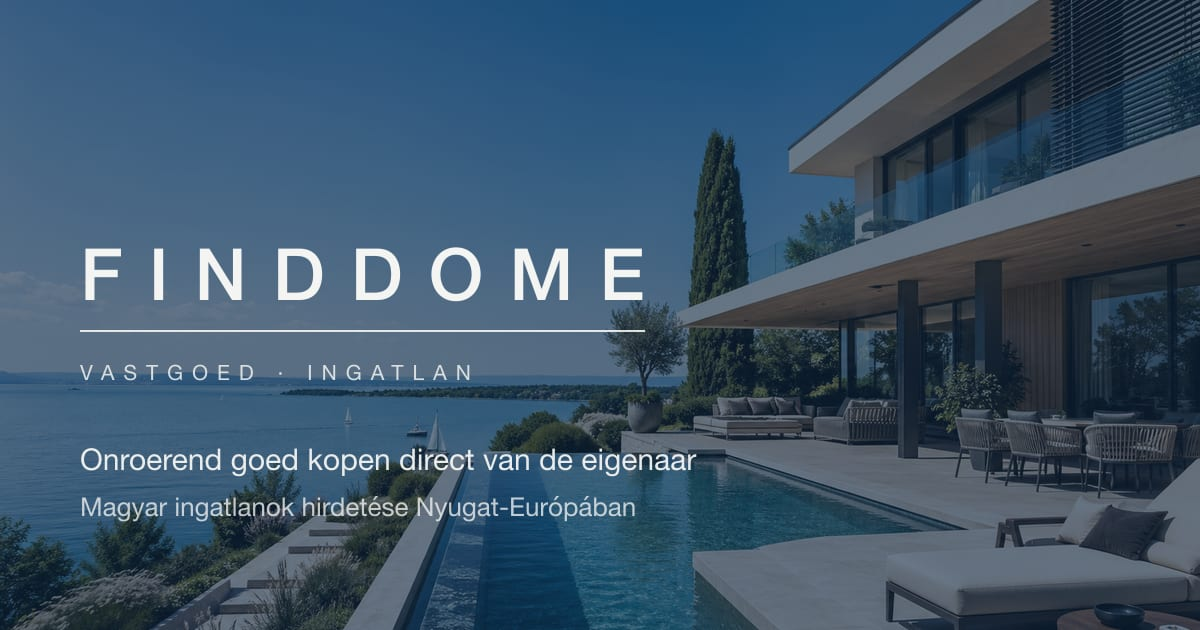
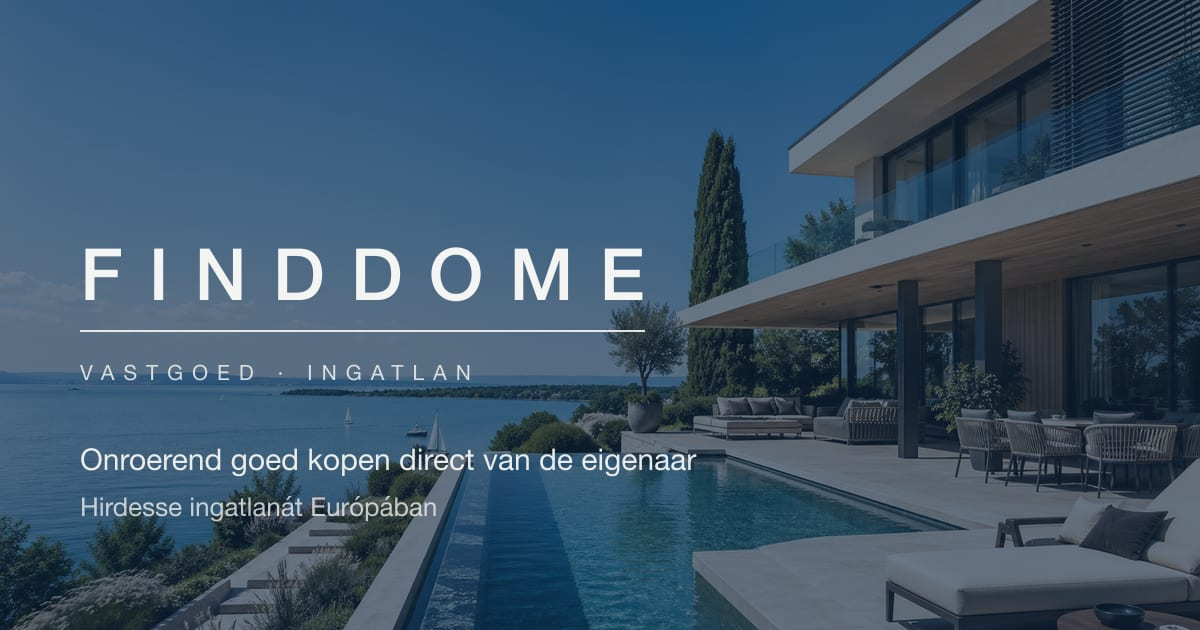
Landing page search title/description and share card follow the new hero (21 languages)

Changed region(s): [[0.0617, 0.7841, 0.5242, 0.8444]]

diff --git a/src/data/copy.ts b/src/data/copy.ts
@@ -59,9 +59,9 @@ const BASE = {
   hu: {
     home: {
       meta: {
-        title: 'FINDDOME Ingatlan | Magyar ingatlanok hirdetése Nyugat-Európában',
+        title: 'FINDDOME Ingatlan | Hirdesse ingatlanát Európában',
         description:
-          `Hirdesse magyar ingatlanát ${REACH_LANGUAGES} nyelven, ${REACH_COUNTRIES} országban, kizárólagossági szerződés nélkül. Készpénzes holland, belga és német vevők. Jutalék csak sikeres eladás esetén.`,
+          'Töltse fel hirdetését néhány lépésben. Online fizetés után 21 nyelvű oldalunkon jelenik meg, kizárólagossági szerződés nélkül.',
       },
       hero: {
         eyebrow: `Alapítva 2013 · ${foundedInLabel('hu')}`,
@@ -322,9 +322,9 @@ const BASE = {
   nl: {
     home: {
       meta: {
-        title: 'FINDDOME Vastgoed | Onroerend goed kopen direct van de eigenaar',
+        title: 'FINDDOME Vastgoed | Adverteer uw vastgoed in Europa',
         description:
-          'Huizen, boerderijen en landgoederen in Hongarije, vaak rechtstreeks van de eigenaar. Nederlandse begeleiding en tweetalige contracten.',
+          'Plaats uw advertentie in enkele stappen. Na online betaling staat ze op onze site in 21 talen, zonder exclusiviteitscontract.',
       },
       hero: {
         eyebrow: `Sinds 2013 · ${foundedInLabel('nl')}`,

diff --git a/src/data/copy-el.ts b/src/data/copy-el.ts
@@ -20,9 +20,9 @@ const L = 'el' as const;
 export const EL = {
   home: {
     meta: {
-      title: 'FINDDOME Real Estates | Αγοράστε ακίνητο στην Ουγγαρία απευθείας από τον ιδιοκτήτη',
+      title: 'FINDDOME Real Estates | Αναρτήστε το ακίνητό σας στην Ευρώπη',
       description:
-        'Σπίτια, αγροκτήματα και εξοχικά κτήματα στην Ουγγαρία, συχνά απευθείας από τον ιδιοκτήτη. Καθοδήγηση στη γλώσσα σας και δίγλωσσα συμβόλαια αγοραπωλησίας.',
+        'Ανεβάστε την αγγελία σας σε λίγα βήματα. Μετά την ηλεκτρονική πληρωμή δημοσιεύεται σε 21 γλώσσες, χωρίς σύμβαση αποκλειστικότητας.',
     },
     hero: {
       eyebrow: `Από το 2013 · ${foundedInLabel(L)}`,

diff --git a/src/data/copy-fr.ts b/src/data/copy-fr.ts
@@ -29,9 +29,9 @@ const hour = (hhmm: string) => {
 export const FR = {
   home: {
     meta: {
-      title: 'FINDDOME Immobilier | Acheter un bien en Hongrie, directement auprès du propriétaire',
+      title: 'FINDDOME Immobilier | Annoncez votre bien en Europe',
       description:
-        'Maisons, fermes et domaines en Hongrie, souvent directement auprès du propriétaire. Accompagnement dans votre langue et contrats de vente bilingues.',
+        'Déposez votre annonce en quelques étapes. Après paiement en ligne, elle est publiée en 21 langues, sans contrat d’exclusivité.',
     },
     hero: {
       eyebrow: `Depuis 2013 · ${foundedInLabel(L)}`,

diff --git a/src/data/copy-pt.ts b/src/data/copy-pt.ts
@@ -20,9 +20,9 @@ const L = 'pt' as const;
 export const PT = {
   home: {
     meta: {
-      title: 'FINDDOME Real Estates | Compre um imóvel na Hungria diretamente ao proprietário',
+      title: 'FINDDOME Real Estates | Anuncie o seu imóvel na Europa',
       description:
-        'Casas, quintas e propriedades rurais na Hungria, muitas vezes diretamente ao proprietário. Acompanhamento na sua língua e contratos de compra e venda bilingues.',
+        'Carregue o seu anúncio em poucos passos. Após o pagamento online, é publicado em 21 idiomas, sem contrato de exclusividade.',
     },
     hero: {
       eyebrow: `Desde 2013 · ${foundedInLabel(L)}`,

diff --git a/src/data/copy-lv.ts b/src/data/copy-lv.ts
@@ -20,9 +20,9 @@ const L = 'lv' as const;
 export const LV = {
   home: {
     meta: {
-      title: 'FINDDOME Real Estates | Iegādājieties īpašumu Ungārijā tieši no īpašnieka',
+      title: 'FINDDOME Real Estates | Sludiniet savu īpašumu Eiropā',
       description:
-        'Mājas, saimniecības un lauku īpašumi Ungārijā, bieži tieši no īpašnieka. Konsultācijas jūsu valodā un divvalodu pirkuma līgumi.',
+        'Augšupielādējiet sludinājumu dažos soļos. Pēc maksājuma tiešsaistē tas tiek publicēts 21 valodā, bez ekskluzivitātes līguma.',
     },
     hero: {
       eyebrow: `Kopš 2013. gada · ${foundedInLabel(L)}`,

diff --git a/src/data/copy-lt.ts b/src/data/copy-lt.ts
@@ -20,9 +20,9 @@ const L = 'lt' as const;
 export const LT = {
   home: {
     meta: {
-      title: 'FINDDOME Real Estates | Įsigykite nekilnojamąjį turtą Vengrijoje tiesiai iš savininko',
+      title: 'FINDDOME Real Estates | Skelbkite savo nekilnojamąjį turtą Europoje',
       description:
-        'Namai, ūkiai ir kaimo valdos Vengrijoje, dažnai tiesiai iš savininko. Konsultacijos jūsų kalba ir dvikalbės pirkimo–pardavimo sutartys.',
+        'Įkelkite skelbimą keliais žingsniais. Apmokėjus internetu jis paskelbiamas 21 kalba, be išskirtinumo sutarties.',
     },
     hero: {
       eyebrow: `Nuo 2013 m. · ${foundedInLabel(L)}`,

diff --git a/src/data/copy-it.ts b/src/data/copy-it.ts
@@ -20,9 +20,9 @@ const L = 'it' as const;
 export const IT = {
   home: {
     meta: {
-      title: 'FINDDOME Real Estates | Acquisti un immobile in Ungheria direttamente dal proprietario',
+      title: 'FINDDOME Real Estates | Pubblichi il suo immobile in Europa',
       description:
-        'Case, aziende agricole e tenute in Ungheria, spesso direttamente dal proprietario. Assistenza nella Sua lingua e contratti di compravendita bilingui.',
+        'Carichi il suo annuncio in pochi passaggi. Dopo il pagamento online è pubblicato in 21 lingue, senza contratto di esclusiva.',
     },
     hero: {
       eyebrow: `Dal 2013 · ${foundedInLabel(L)}`,

diff --git a/src/data/copy-pl.ts b/src/data/copy-pl.ts
@@ -25,9 +25,9 @@ const hour = (hhmm: string) => {
 export const PL = {
   home: {
     meta: {
-      title: 'FINDDOME Nieruchomości | Kup nieruchomość na Węgrzech bezpośrednio od właściciela',
+      title: 'FINDDOME Nieruchomości | Ogłoś swoją nieruchomość w Europie',
       description:
-        'Domy, gospodarstwa i dwory na Węgrzech, często bezpośrednio od właściciela. Osobista opieka i dwujęzyczne umowy kupna-sprzedaży.',
+        'Dodaj ogłoszenie w kilku krokach. Po płatności online pojawia się w 21 językach, bez umowy na wyłączność.',
     },
     hero: {
       eyebrow: `Od 2013 roku · ${foundedInLabel(L)}`,

diff --git a/src/data/copy-ro.ts b/src/data/copy-ro.ts
@@ -25,9 +25,9 @@ const hour = (hhmm: string) => {
 export const RO = {
   home: {
     meta: {
-      title: 'FINDDOME Imobiliare | Cumpărați o proprietate în Ungaria direct de la proprietar',
+      title: 'FINDDOME Imobiliare | Promovați-vă proprietatea în Europa',
       description:
-        'Case, ferme și conace în Ungaria, adesea direct de la proprietar. Asistență personală și contracte de vânzare-cumpărare bilingve.',
+        'Încărcați anunțul în câțiva pași. După plata online apare în 21 de limbi, fără contract de exclusivitate.',
     },
     hero: {
       eyebrow: `Din 2013 · ${foundedInLabel(L)}`,

diff --git a/src/data/copy-es.ts b/src/data/copy-es.ts
@@ -25,9 +25,9 @@ const hour = (hhmm: string) => {
 export const ES = {
   home: {
     meta: {
-      title: 'FINDDOME Inmobiliaria | Comprar un inmueble en Hungría directamente al propietario',
+      title: 'FINDDOME Inmobiliaria | Anuncie su inmueble en Europa',
       description:
-        'Casas, fincas y casas señoriales en Hungría, a menudo directamente al propietario. Acompañamiento personal y contratos de compraventa bilingües.',
+        'Suba su anuncio en pocos pasos. Tras el pago en línea se publica en 21 idiomas, sin contrato de exclusividad.',
     },
     hero: {
       eyebrow: `Desde 2013 · ${foundedInLabel(L)}`,

diff --git a/src/data/copy-sl.ts b/src/data/copy-sl.ts
@@ -20,9 +20,9 @@ const L = 'sl' as const;
 export const SL = {
   home: {
     meta: {
-      title: 'FINDDOME Real Estates | Kupite nepremičnino na Madžarskem neposredno od lastnika',
+      title: 'FINDDOME Real Estates | Oglašujte svojo nepremičnino v Evropi',
       description:
-        'Hiše, kmetije in podeželska posestva na Madžarskem, pogosto neposredno od lastnika. Svetovanje v vašem jeziku in dvojezične prodajne pogodbe.',
+        'Oglas naložite v nekaj korakih. Po spletnem plačilu se objavi v 21 jezikih, brez pogodbe o ekskluzivnosti.',
     },
     hero: {
       eyebrow: `Od leta 2013 · ${foundedInLabel(L)}`,

diff --git a/src/data/copy-de.ts b/src/data/copy-de.ts
@@ -23,9 +23,9 @@ const pct = (n: number) => `${n} %`;
 export const DE = {
   home: {
     meta: {
-      title: 'FINDDOME Immobilien | Immobilien in Ungarn direkt vom Eigentümer kaufen',
+      title: 'FINDDOME Immobilien | Inserieren Sie Ihre Immobilie in Europa',
       description:
-        'Häuser, Höfe und Landgüter in Ungarn, oft direkt vom Eigentümer. Betreuung in Ihrer Sprache und zweisprachige Kaufverträge.',
+        'Laden Sie Ihr Inserat in wenigen Schritten hoch. Nach der Online-Zahlung erscheint es in 21 Sprachen, ohne Exklusivvertrag.',
     },
     hero: {
       eyebrow: `Seit 2013 · ${foundedInLabel(L)}`,
